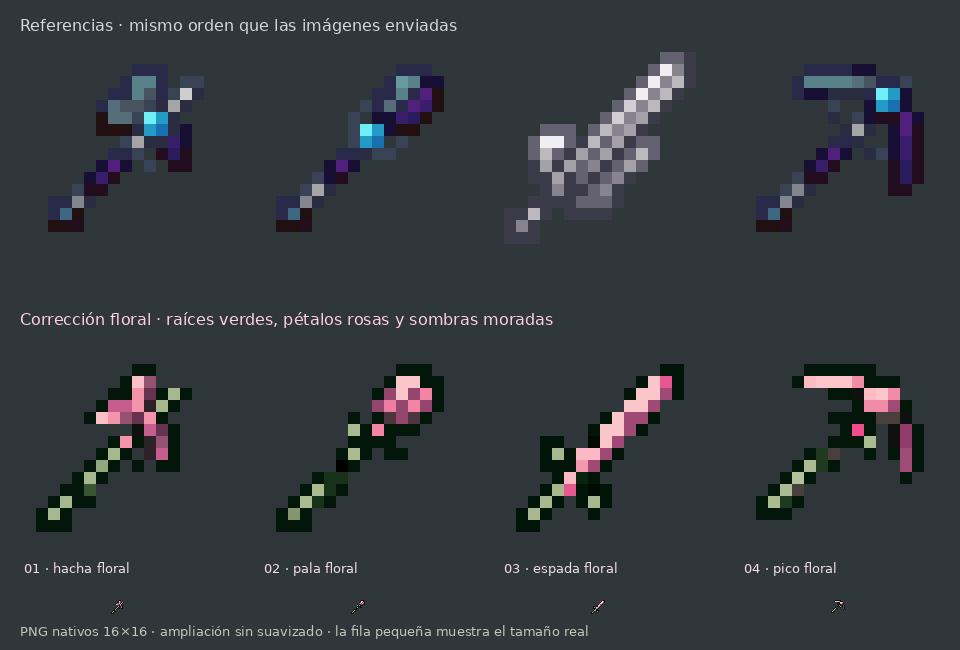
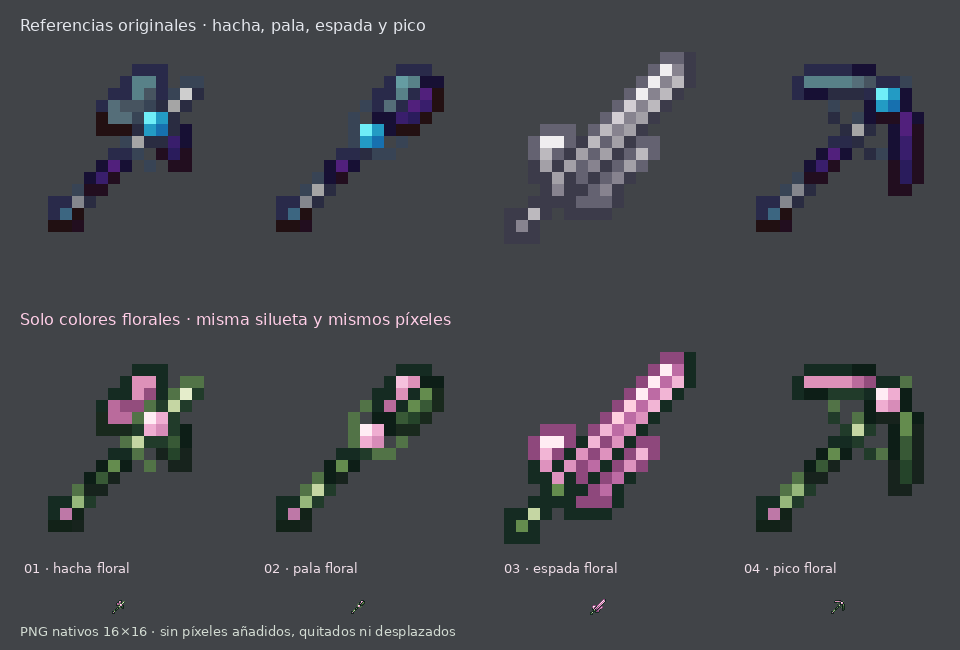
Version #76 - 26.2: recolorear herramientas florales conservando los pixeles originales

diff --git a/descargas/correcciones-items/correccion-herramientas-florales/README.md b/descargas/correcciones-items/correccion-herramientas-florales/README.md
@@ -1,12 +1,12 @@
-# Corrección de herramientas florales · #73
+# Corrección de herramientas florales · #76
 
 [Descargar ZIP](correccion-herramientas-florales.zip)
 
 ![Referencias y resultado en el mismo orden](vista_previa.png)
 
-Nueva variante en una subcarpeta independiente, usando las cuatro referencias del usuario. Mantiene el orden **hacha, pala, espada y pico**, los mangos diagonales y las formas de sus cabezas, con pequeños ajustes florales.
+Recoloración de las cuatro referencias originales, en el orden **hacha, pala, espada y pico**. Se mantiene exactamente la silueta de cada original: ningún píxel añadido, eliminado o desplazado. Se conserva la distribución de sus sombras y detalles, cambiando solamente la paleta.
 
-Los mangos son raíces verdes oscuras con vetas verde salvia; las cabezas llevan rosas claros y sombras moradas. Pequeños brotes rosas y hojas se concentran en las uniones, con contorno verde casi negro para mantener la lectura del item.
+Las cabezas llevan rosas y sombras moradas; los mangos, verdes oscuros con luces verde salvia. Los contornos son verde casi negro. No se añaden flores ni adornos que alteren las formas de referencia.
 
 ## Archivos sueltos, en orden
 
@@ -25,4 +25,4 @@ Fusiona la carpeta **assets** del ZIP con tu resource pack, reemplazando las cua
 
 Esta revisión está solo en esta subcarpeta: puedes compararla con las anteriores antes de integrarla. No modifica los atributos de las herramientas ni requiere recrear los items.
 
-Se verificaron dimensiones, transparencia, nombres de modelo, coincidencia entre los PNG sueltos y los de `assets`, y el contenido del ZIP. La vista es una ampliación de las texturas reales, no una captura del juego.
+Se comparó el canal de transparencia completo con cada original: los 256 píxeles coinciden en las cuatro herramientas. Se verificó que cada tono original conserva sus agrupaciones dentro de cada material, además de dimensiones, nombres de modelo, coincidencia entre los PNG sueltos y los de `assets`, y el contenido del ZIP. La vista es una ampliación de las texturas reales, no una captura del juego.
